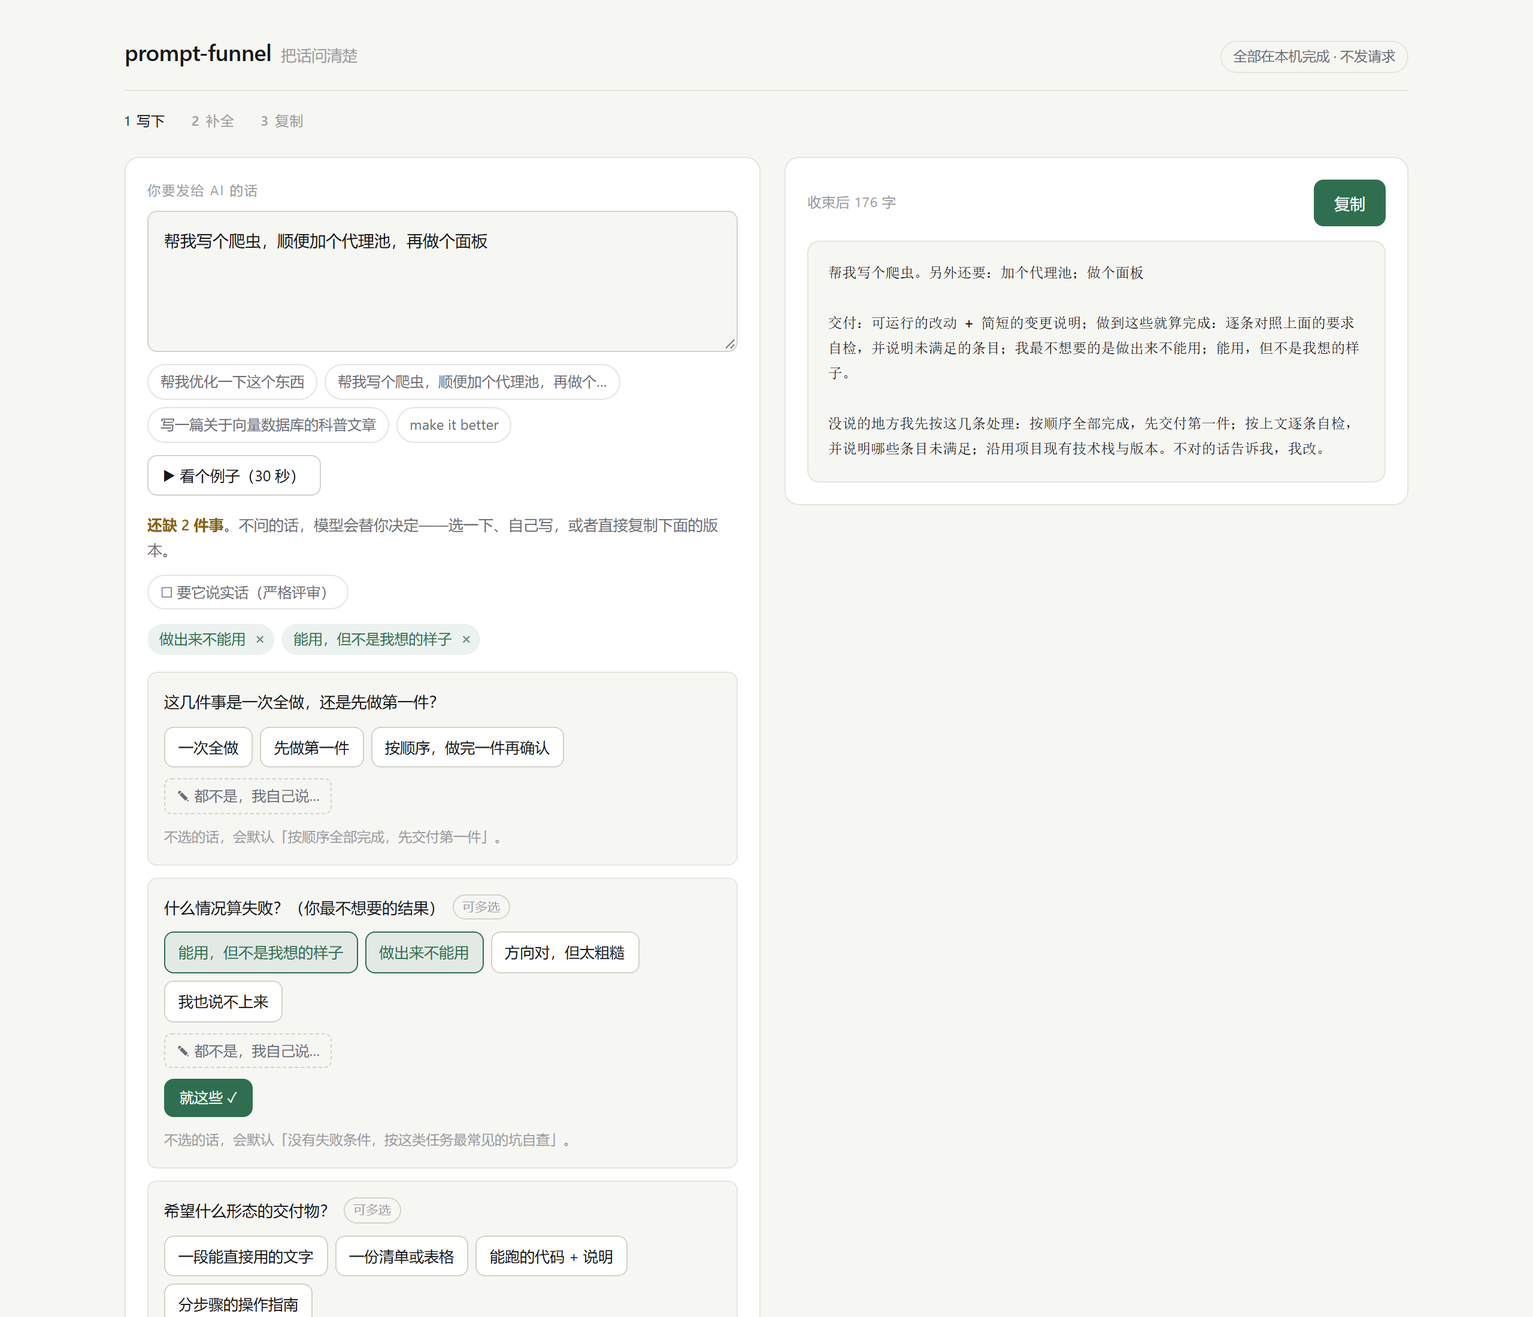
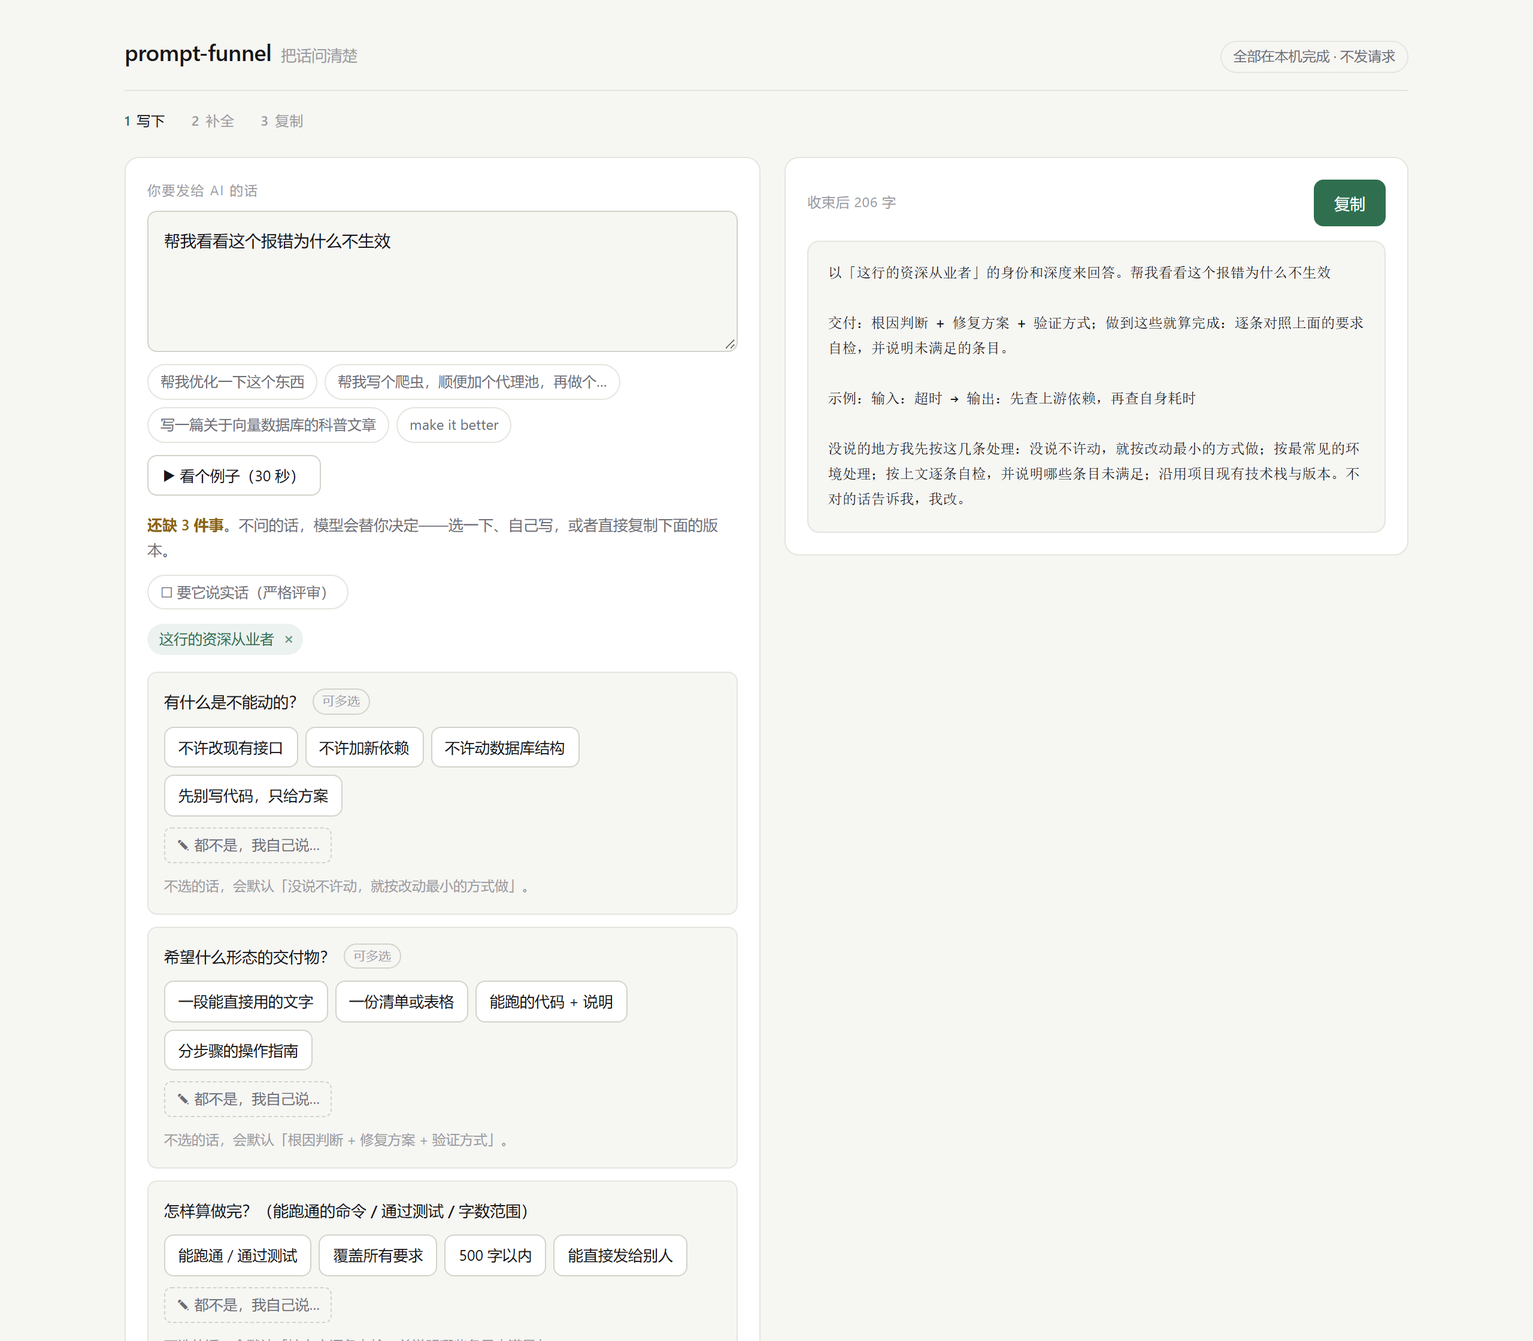
feat: role, examples and plan-first, from the five-part template
Compared the tool against the standard five-part prompt template (role / task /
context / examples / format) and OpenAI's six strategies. Three parts were
missing:

- role: asked for debug/plan/answer work, where expertise changes the depth.
  Scoped on purpose — 'you are the world's best expert' is cargo cult.
- examples: one input/output pair, optional. Few-shot beats instruction tweaks
  in the literature, and it is the cheapest way to show a shape.
- plan-first: 'give me a plan, then I confirm' or 'two or three options'.

An explicit role or example now forces compilation: the gate used to pass the
text through untouched and silently drop what was just asked for.

Also fixes the objective being duplicated as its own background, and raises the
question cap to four now that skipping is cheap.

diff --git a/src/render.ts b/src/render.ts
@@ -18,6 +18,10 @@ type Lang = 'zh' | 'en';
 
 interface Labels {
   objective: string;
+  role: string;
+  examples: string;
+  exampleIn: string;
+  exampleOut: string;
   context: string;
   requirements: string;
   constraints: string;
@@ -40,6 +44,10 @@ interface Labels {
 const LABELS: Record<Lang, Labels> = {
   zh: {
     objective: '目标',
+    role: '角色',
+    examples: '示例',
+    exampleIn: '输入',
+    exampleOut: '输出',
     context: '背景',
     requirements: '要求',
     constraints: '约束',
@@ -60,6 +68,10 @@ const LABELS: Record<Lang, Labels> = {
   },
   en: {
     objective: 'Objective',
+    role: 'Role',
+    examples: 'Examples',
+    exampleIn: 'input',
+    exampleOut: 'output',
     context: 'Context',
     requirements: 'Requirements',
     constraints: 'Constraints',
@@ -98,6 +110,22 @@ function section(heading: string, body: string[]): string[] {
   return body.length === 0 ? [] : [`## ${heading}`, '', ...body, ''];
 }
 
+/** Role line, phrased as an instruction rather than a bare noun. */
+function roleLine(spec: PromptSpec, labels: Labels): string | undefined {
+  if (spec.role === undefined) return undefined;
+  const zh = labels.colon === '：';
+  const who = itemText(spec.role, labels);
+  return zh ? `以「${who}」的身份和深度来回答` : `Answer as ${who}`;
+}
+
+/** Few-shot pairs, rendered the way a person would write them. */
+function exampleLines(spec: PromptSpec, labels: Labels): string[] {
+  if (spec.examples === undefined || spec.examples.length === 0) return [];
+  return spec.examples.map(
+    (pair) => `${labels.exampleIn}${labels.colon}${pair.input.trim()} → ${labels.exampleOut}${labels.colon}${pair.output.trim()}`,
+  );
+}
+
 /** The default assumptions block, shared by every style. */
 function assumptionBody(spec: PromptSpec, labels: Labels): string[] {
   const block: string[] = [];
@@ -129,9 +157,13 @@ function renderBluf(spec: PromptSpec, labels: Labels): string[] {
   if (spec.carried !== undefined) {
     out.push(`## ${labels.carried}`, '', spec.carried.text.trim(), '');
   }
+  const role = roleLine(spec, labels);
+  if (role !== undefined) out.push(`## ${labels.role}`, '', role, '');
+
   out.push(`## ${labels.objective}`, '', itemText(spec.objective, labels), '');
 
   out.push(...section(labels.context, spec.context.map((item) => `- ${line(item, labels)}`)));
+  out.push(...section(labels.examples, exampleLines(spec, labels).map((entry) => `- ${entry}`)));
 
   if (spec.requirements.length > 0) {
     out.push(`## ${labels.requirements}`, '');
@@ -158,7 +190,11 @@ function renderCompact(spec: PromptSpec, labels: Labels): string[] {
   if (spec.carried !== undefined) {
     out.push(`**${labels.carried}**${labels.colon}${spec.carried.text.replace(/\s*\n\s*/gu, ' / ')}`);
   }
+  const role = roleLine(spec, labels);
+  if (role !== undefined) out.push(`**${labels.role}**${labels.colon}${role}`);
   out.push(`**${labels.objective}**${labels.colon}${itemText(spec.objective, labels)}`);
+  const examples = exampleLines(spec, labels);
+  if (examples.length > 0) out.push(`**${labels.examples}**${labels.colon}${examples.join(labels.separator)}`);
   const bullet = (heading: string, values: string[]): void => {
     if (values.length > 0) out.push(`**${heading}**${labels.colon}${values.join(labels.separator)}`);
   };
@@ -187,7 +223,10 @@ function renderChecklist(spec: PromptSpec, labels: Labels): string[] {
   if (spec.carried !== undefined) {
     out.push(`**${labels.carried}**${labels.colon}${spec.carried.text.replace(/\s*\n\s*/gu, ' / ')}`, '');
   }
+  const role = roleLine(spec, labels);
+  if (role !== undefined) out.push(`- [ ] ${kv(labels.role, role, labels)}`);
   out.push(`- [ ] ${kv(labels.objective, itemText(spec.objective, labels), labels)}`);
+  for (const entry of exampleLines(spec, labels)) out.push(`- [ ] ${kv(labels.examples, entry, labels)}`);
   for (const requirement of spec.requirements) out.push(`- [ ] ${line(requirement, labels)}`);
   for (const item of spec.constraints) out.push(`- [ ] ${kv(labels.constraints, line(item, labels), labels)}`);
   for (const item of spec.nonGoals) out.push(`- [ ] ${kv(labels.nonGoals, line(item, labels), labels)}`);
@@ -221,7 +260,8 @@ function renderChat(spec: PromptSpec, labels: Labels): string[] {
     paragraphs.push(`${labels.context}${labels.colon}${body}`);
   }
 
-  let main = spec.objective.text.trim();
+  const role = roleLine(spec, labels);
+  let main = role !== undefined ? `${role}${stop}${spec.objective.text.trim()}` : spec.objective.text.trim();
   if (spec.requirements.length > 0) {
     // No numbering here: this style is prose, and a list marker would also read
     // as an invented literal to the fidelity check.
@@ -255,6 +295,9 @@ function renderChat(spec: PromptSpec, labels: Labels): string[] {
 
   // The one place provenance survives: defaults are stated, in the user's voice,
   // as things the model may choose — not as things the user said.
+  const examples = exampleLines(spec, labels);
+  if (examples.length > 0) paragraphs.push(`${labels.examples}${labels.colon}${examples.join(sep)}`);
+
   const said = paragraphs.join('\n');
   const fresh = spec.assumptions.filter((item) => !said.includes(item.text.trim()));
   if (fresh.length > 0) {

diff --git a/src/analyze.ts b/src/analyze.ts
@@ -309,6 +309,8 @@ const GAP_OPTIONS: Record<Lang, Record<string, string[]>> = {
     stack: ['沿用现有技术栈', 'TypeScript / Node', 'Python', '不确定，你来选'],
     quality: ['玩法 / 规则上的新', '视觉 / 氛围上的新', '技术实现上的新', '先给我三个方向选'],
     failure: ['做出来不能用', '能用，但不是我想的样子', '方向对，但太粗糙', '我也说不上来'],
+    role: ['不需要，按通用助手来', '这行的资深从业者', '严格的评审者', '完全不懂这块的人（帮你检查是否说人话）'],
+    approach: ['直接做', '先给计划，我确认后再做', '先给两三个方案让我对比'],
     rubric: ['老师有评分表（我贴给你）', '字数有硬性要求', '要附参考文献 / 引用格式', '要能讲清推导过程', '不能看起来像 AI 写的'],
     forbidden: ['不许改现有接口', '不许加新依赖', '不许动数据库结构', '先别写代码，只给方案'],
     repro: ['本机 Node 22', 'Docker 里跑', '公司 / 学校的内网环境', '不确定，按最常见的来'],
@@ -321,6 +323,8 @@ const GAP_OPTIONS: Record<Lang, Record<string, string[]>> = {
     stack: ['The existing stack', 'TypeScript / Node', 'Python', 'Not sure, you pick'],
     quality: ['New mechanics', 'New look and feel', 'New technical approach', 'Give me three directions first'],
     failure: ['It does not run', 'It runs but is not what I meant', 'Right direction, too rough', 'I cannot say'],
+    role: ['No role, just a general assistant', 'A senior practitioner of this craft', 'A strict reviewer', 'Someone who knows nothing about this (checks if it reads)'],
+    approach: ['Just do it', 'Give me a plan first, then I confirm', 'Give me two or three options to compare'],
     rubric: ['There is a marking rubric (I will paste it)', 'A hard word limit', 'References / citation style required', 'Show the derivation', 'It must not read as AI-written'],
     forbidden: ['Do not change the existing interface', 'No new dependencies', 'Do not touch the schema', 'Do not write code yet, plan first'],
     repro: ['Node 22 on my machine', 'Inside Docker', 'A locked-down work network', 'Not sure, use the usual'],
@@ -398,6 +402,30 @@ function collectGaps(
           lang === 'zh'
             ? '不说清什么算失败，模型不会主动避开它'
             : 'A failure you never named is one the model will not avoid',
+      },
+    });
+  }
+  if (intent === 'plan' || intent === 'debug' || intent === 'answer') {
+    gaps.push({
+      id: 'role',
+      rank: 2,
+      question: lang === 'zh' ? '要它扮演谁？' : 'Who should answer?',
+      options: GAP_OPTIONS[lang].role ?? [],
+      assumption: {
+        text: lang === 'zh' ? '按通用助手回答' : 'A general assistant',
+        impact: lang === 'zh' ? '不给身份，回答的深度会按「普通人」来' : 'Depth will default to a general reader',
+      },
+    });
+  }
+  if (intent === 'execute' || intent === 'plan') {
+    gaps.push({
+      id: 'approach',
+      rank: 3,
+      question: lang === 'zh' ? '直接做，还是先给计划？' : 'Act now, or plan first?',
+      options: GAP_OPTIONS[lang].approach ?? [],
+      assumption: {
+        text: lang === 'zh' ? '直接给结果' : 'Do it directly',
+        impact: lang === 'zh' ? '不先说，方向错了要整体返工' : 'A wrong direction means rework',
       },
     });
   }
@@ -507,7 +535,12 @@ export function analyzeWithRules(raw: string, gateResult?: GateResult, options: 
   const constraints = toItems(units.filter((unit) => unit.role === 'constraint'));
   const nonGoals = toItems(units.filter((unit) => unit.role === 'non-goal'));
   const acceptance = toItems(units.filter((unit) => unit.role === 'acceptance'));
-  const context = toItems(units.filter((unit) => unit.role === 'context')).slice(0, 8);
+  // A single sentence cannot be both the ask and its own background: the
+  // classifier calls long sentences "context", which duplicated the objective.
+  const objectiveText = objective.item.text;
+  const context = toItems(units.filter((unit) => unit.role === 'context'))
+    .filter((item) => item.text !== objectiveText && !objectiveText.includes(item.text))
+    .slice(0, 8);
 
   const formatSentence = findDeliverableSentence(units);
   const deliverable: Deliverable = {};
@@ -521,7 +554,7 @@ export function analyzeWithRules(raw: string, gateResult?: GateResult, options: 
   // Gaps are pushed in rank order, so the first three are the ones worth a
   // round-trip. Rank decides *priority*, not eligibility: a third-tier gap still
   // gets asked when nothing more important is missing.
-  const asked = gaps.slice(0, 3);
+  const asked = [...gaps].sort((left, right) => left.rank - right.rank).slice(0, 4);
   const openQuestions = asked.map((gap) => gap.question);
   // Only the gaps that were actually asked become answerable in the UI; the rest
   // stay as silent defaults so the prompt never grows a fourth question.

diff --git a/playground/index.html b/playground/index.html
@@ -283,6 +283,15 @@
       }
 
       /* ── advanced ───────────────────────────────────────── */
+      details.extra { margin-top: 14px; border-top: 1px solid var(--line); padding-top: 12px; }
+      details.extra summary { cursor: pointer; font-size: 11.5px; color: var(--faint); letter-spacing: 0.03em; }
+      details.extra summary:hover { color: var(--ink); }
+      .extra-note { margin: 10px 0 8px; font-size: 11.5px; color: var(--faint); }
+      .extra-grid { display: grid; grid-template-columns: 1fr 1fr; gap: 8px; }
+      .extra-grid input {
+        font: inherit; font-size: 12.5px; padding: 7px 10px; border-radius: var(--radius-sm);
+        border: 1px solid var(--line-strong); background: var(--bg); color: var(--ink);
+      }
       details.advanced { margin-top: 18px; border-top: 1px solid var(--line); padding-top: 14px; }
       details.advanced summary { cursor: pointer; font-size: 11.5px; color: var(--faint); letter-spacing: 0.04em; }
       details.advanced summary:hover { color: var(--ink); }
@@ -341,6 +350,15 @@
           <div class="answers" id="answers"></div>
           <div class="questions" id="questions"></div>
           <div class="seeds" id="seeds"></div>
+
+          <details class="extra">
+            <summary>加一个例子（可选，最有效的那种补充）</summary>
+            <p class="extra-note">给一组「输入 → 输出」，比任何形容词都更能说明你要什么。</p>
+            <div class="extra-grid">
+              <input type="text" id="example-in" placeholder="输入：例如 用户说「质量太差」" />
+              <input type="text" id="example-out" placeholder="输出：例如 负面" />
+            </div>
+          </details>
 
           <details class="advanced">
             <summary>高级</summary>
@@ -419,6 +437,8 @@
           const finalized = new Set();
           /** Which text the cache belongs to: answers must survive re-renders. */
           let cacheText = null;
+      /** One optional input/output pair, kept outside the question model. */
+      const examplePair = { input: '', output: '' };
     
           // Remembered choices are a hint, never an automatic answer: preselecting
           // what someone picked last time would let them forget what they agreed to.
@@ -693,6 +713,7 @@
     
           /** Build the spec from the current text, answers and toggles. */
           function computeSpec() {
+        const pairReady = examplePair.input.trim().length > 0 && examplePair.output.trim().length > 0;
             const text = input.value.trim();
             const split = splitContext(text);
             const request = split.separated ? split.request : text;
@@ -703,6 +724,7 @@
               spec.meta.source = text;
             }
             for (const [id, answer] of answers) spec = answerQuestion(spec, id, answer);
+        if (pairReady) spec.examples = [{ input: examplePair.input.trim(), output: examplePair.output.trim() }];
     
             const chosen = getTemplate(templateSel.value);
             if (chosen.id !== 'default') spec = applyTemplate(spec, chosen);
@@ -825,7 +847,19 @@
           templateSel.addEventListener('change', syncStrict);
           syncStrict();
     
-          const copyButton = document.getElementById('copy');
+          const exampleIn = document.getElementById('example-in');
+      const exampleOut = document.getElementById('example-out');
+      for (const field of [exampleIn, exampleOut]) {
+        field.addEventListener('input', () => {
+          examplePair.input = exampleIn.value;
+          examplePair.output = exampleOut.value;
+          // A role or an example is an explicit ask: never pass the text through
+          // untouched while dropping it.
+          render();
+        });
+      }
+
+      const copyButton = document.getElementById('copy');
           copyButton.addEventListener('click', async () => {
             const text = out.textContent ?? '';
             if (text.length === 0) return;

diff --git a/src/compile.ts b/src/compile.ts
@@ -54,6 +54,16 @@ export async function compile(raw: string, options: CompileOptions = {}, deps: C
 
   const base = analyzeWithRules(request, verdict, options);
   base.meta.style = style;
+  if (options.role !== undefined && options.role.trim().length > 0) {
+    base.role = { text: options.role.trim(), source: 'user' };
+  }
+  if (options.examples !== undefined) {
+    const pairs = options.examples
+      .map((line) => line.split(/=>|→/u))
+      .map(([input, output]) => ({ input: (input ?? '').trim(), output: (output ?? '').trim() }))
+      .filter((pair) => pair.input.length > 0 && pair.output.length > 0);
+    if (pairs.length > 0) base.examples = pairs;
+  }
   if (split.separated) {
     // The context is carried verbatim; the request is what gets analysed. The
     // fidelity check still runs against everything the user pasted.
@@ -61,7 +71,10 @@ export async function compile(raw: string, options: CompileOptions = {}, deps: C
     base.meta.source = source;
   }
 
-  if (options.force !== true && options.template === undefined && verdict.decision === 'pass') {
+  // Asking for a role or an example is an explicit instruction to compile:
+  // passing through would silently drop what the user just asked for.
+  const explicitStructure = options.role !== undefined || (options.examples?.length ?? 0) > 0;
+  if (options.force !== true && options.template === undefined && !explicitStructure && verdict.decision === 'pass') {
     const fidelity = checkFidelity(base, source);
     return {
       spec: base,

diff --git a/src/questions.ts b/src/questions.ts
@@ -111,6 +111,25 @@ export function answerQuestion(spec: PromptSpec, id: string, answer: string | An
         if (!NO_FAILURE_STATED.test(part)) next.acceptance.push({ text: `不出现：${part}`, source: 'user' });
       }
       break;
+    case 'role':
+      // "No role" is an answer, not an empty one: it must not become a line.
+      if (!/^(?:不需要|No role)/u.test(text)) next.role = { text, source: 'user' };
+      break;
+    case 'approach':
+      if (/^(?:直接做|Just do it)/u.test(text)) {
+        // Doing it directly is the default; saying so adds nothing to the prompt.
+      } else if (/计划/u.test(text)) {
+        next.requirements = renumber([
+          ...next.requirements,
+          { id: 'R?', text: '先给步骤计划，等我确认后再执行', source: 'user' },
+        ]);
+      } else {
+        next.requirements = renumber([
+          ...next.requirements,
+          { id: 'R?', text: '先给 2–3 个方案让我对比，再选一个执行', source: 'user' },
+        ]);
+      }
+      break;
     case 'rubric':
       // A marking scheme is a constraint, not a requirement: it says what the
       // artefact must satisfy, not what to build.

diff --git a/src/types.ts b/src/types.ts
@@ -98,6 +98,10 @@ export interface PromptSpec {
   intent: IntentClass;
   objective: Item;
   context: Item[];
+  /** Who the model should act as, when expertise changes the answer. */
+  role?: Item;
+  /** Input/output pairs showing the shape of the wanted result. */
+  examples?: Array<{ input: string; output: string }>;
   requirements: Requirement[];
   constraints: Item[];
   nonGoals: Item[];
@@ -185,6 +189,10 @@ export interface CompileOptions {
   keepOriginal?: 'auto' | 'on' | 'off';
   /** Intent template id (see `funnel templates`). */
   template?: string;
+  /** Who the model should act as, e.g. "a senior backend engineer". */
+  role?: string;
+  /** `input => output` pairs that show the wanted shape. */
+  examples?: string[];
   /** `warn` (default) reports sensitive spans; `on` replaces them; `off` skips the scan. */
   redact?: 'off' | 'warn' | 'on';
   now?: string;

diff --git a/src/cli/index.ts b/src/cli/index.ts
@@ -114,9 +114,17 @@ async function commandCompile(args: Args): Promise<number> {
   const template = flagValue(args, 'template');
 
   const redact = flagOn(args, 'redact') ? 'on' : flagOn(args, 'no-redact') ? 'off' : 'warn';
+  const roleFlag = flagValue(args, 'role');
+  // Repeatable flags are not supported by the parser; accept a list instead.
+  const exampleFlags = (flagValue(args, 'example') ?? '')
+    .split('|')
+    .map((entry) => entry.trim())
+    .filter((entry) => entry.length > 0);
   const result = await compile(raw, {
     force: flagOn(args, 'force'),
     redact,
+    ...(roleFlag !== undefined ? { role: roleFlag } : {}),
+    ...(exampleFlags.length > 0 ? { examples: exampleFlags } : {}),
     ...(style !== undefined ? { style } : {}),
     ...(engine !== undefined ? { engine } : {}),
     ...(keepOriginal !== undefined ? { keepOriginal } : {}),

diff --git a/src/version.ts b/src/version.ts
@@ -1,5 +1,5 @@
 /** Single source of truth for the reported version. */
-export const VERSION = '0.10.0';
+export const VERSION = '0.11.0';
 
 
 

diff --git a/CHANGELOG.md b/CHANGELOG.md
@@ -1,5 +1,17 @@
 # 变更记录
 
+## 0.11.0
+
+对照「提示词工程完全指南」里那套五段式模板（角色 / 任务 / 上下文 / 示例 / 输入输出格式）与 OpenAI 六策略，补上工具缺的三样：
+
+- **角色**：调试、规划、问答类请求会问「要它扮演谁」，选项里带一个「完全不懂这块的人」——用来检查你的话是不是说人话。选「不需要」不会写进提示词。
+- **示例（few-shot）**：页面底部可以给一组「输入 → 输出」。这是文献里效果最稳的一招（同等条件下 few-shot 优于只改指令），比任何形容词都更能说明你要什么。
+- **先计划再执行**：执行/规划类请求可以选「先给计划，我确认后再做」或「先给两三个方案对比」。
+- 指定了角色或示例时**强制编译**——否则闸门会原样放行，把你刚说的话丢掉。
+- 修了一个重复 bug：长句会被判成「背景」，导致同一句话既进「目标」又进「背景」。现在单句不会再自我复制。
+- 问题上限 3 → 4。有了「自己说」和「就这些」之后，多问一个的边际成本比漏掉一个低。
+- 测试 149 → 155。
+
 ## 0.10.0
 
 - **学生 / 开发者的专属约束轴**（AM-Bench：约束缺口靠提问修不好，只能显式捕获）：
